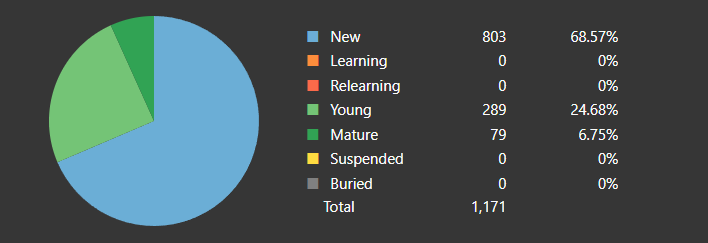
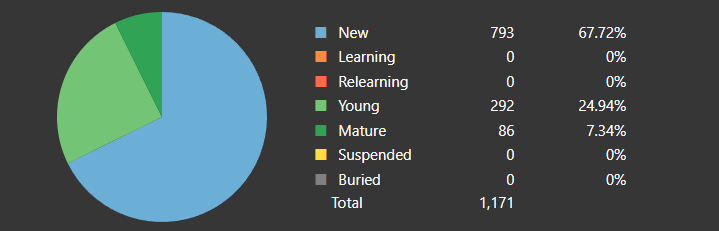
Adding card counts for 10/03
Doing review today as opposed to learning something new from the textbook so just anki stats today

diff --git a/docs/index.md b/docs/index.md
@@ -10,7 +10,7 @@
 
 ## Card Counts
 
-As of **_10/02/2023_** `368 Vocabulary words known`
+As of **_10/03/2023_** `378 Vocabulary words known`
 
 ![Card Counts](./assets/anki-stats/card-counts.png){ align=center }
 
